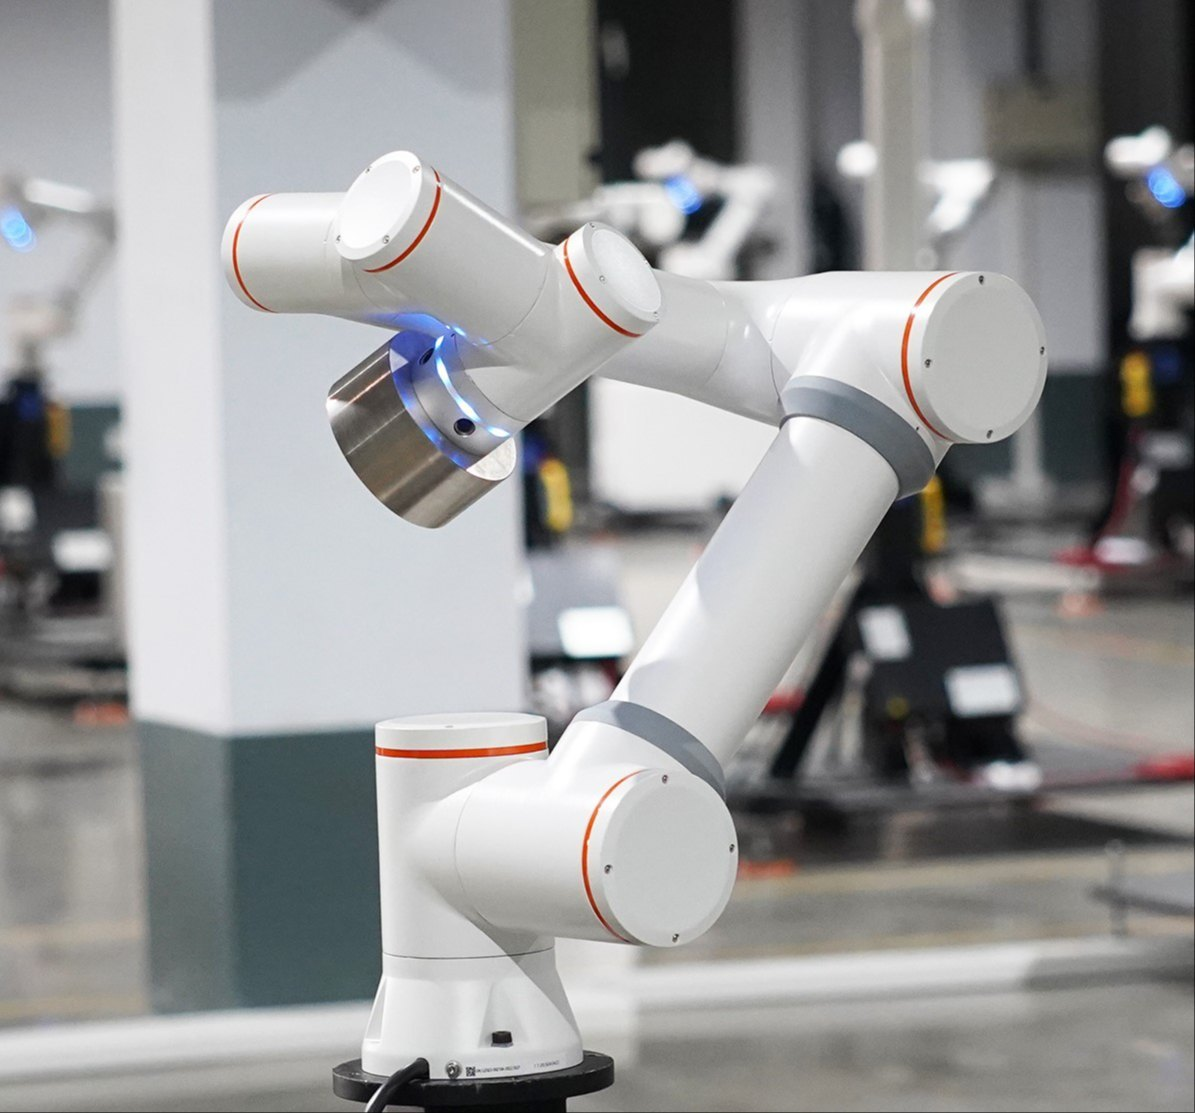
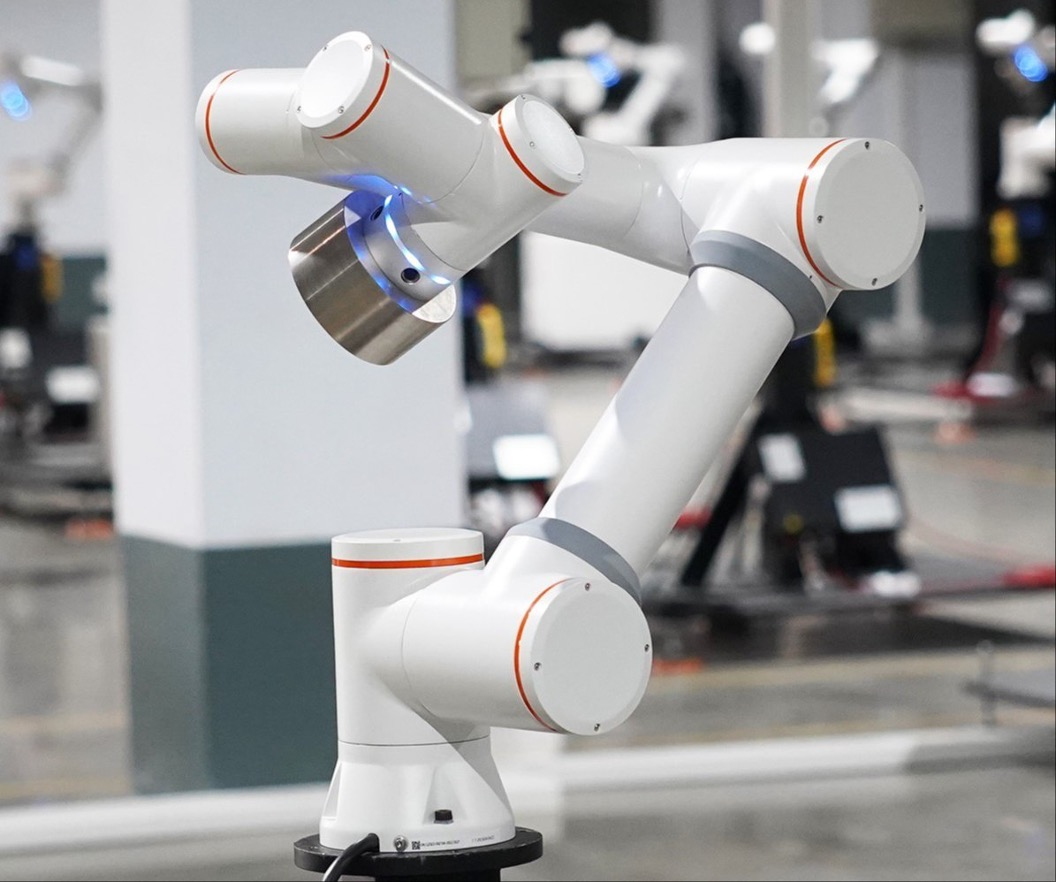
Update research modules: fix YouTube embed URLs, improve video sizing and alignment, add project lead styling, update content formatting

diff --git a/_projects/llms7.md b/_projects/llms7.md
@@ -7,14 +7,48 @@ importance: 1
 category: current
 ---
 
-To be updated.
+#### *Project Lead: [Peihan Li](https://scholar.google.com/citations?user=Qg7-Gr0AAAAJ&hl=en)*
 
-[arXiv:2502.03814](https://arxiv.org/abs/2502.03814): Large language models for multi-robot systems: A survey.
+## Large Language Models for Multi-Robot Systems: A Survey
 
-[arXiv:2505.06513](https://arxiv.org/abs/2505.06513): LLM-Flock: Decentralized Multi-Robot Flocking via Large Language Models and Influence-Based Consensus.
+<div class="row">
+    <div class="col-sm mt-3 mt-md-0">
+        {% include figure.html path="assets/img/LLMMRS.png" title="example image" class="img-fluid rounded z-depth-1" %}
+    </div>
+</div>
 
-[arXiv:2409.12274](https://arxiv.org/abs/2409.12274): Hierarchical llms in-the-loop optimization for real-time multi-robot target tracking under unknown hazards.
+The rapid advancement of Large Language Models (LLMs) has opened new possibilities in Multi-Robot Systems (MRS), enabling enhanced communication, task planning, and human-robot interaction. Unlike traditional single-robot and multi-agent systems, MRS poses unique challenges, including coordination, scalability, and real-world adaptability. This survey provides the first comprehensive exploration of LLM integration into MRS. It systematically categorizes their applications across high-level task allocation, mid-level motion planning, low-level action generation, and human intervention. We highlight key applications in diverse domains, such as household robotics, construction, formation control, target tracking, and robot games, showcasing the versatility and transformative potential of LLMs in MRS.
+Furthermore, we examine the challenges that limit adapting LLMs in MRS, including mathematical reasoning limitations, hallucination, latency issues, and the need for robust benchmarking systems. Finally, we outline opportunities for future research, emphasizing advancements in fine-tuning, reasoning techniques, and task-specific models. This survey aims to guide researchers in the intelligence and real-world deployment of MRS powered by LLMs. Based on the fast-evolving nature of research in the field, we keep updating the papers in the open-source [Github repository](https://github.com/Zhourobotics/LLM-MRS-survey). [Preprint](https://arxiv.org/abs/2502.03814).
 
-[arXiv:2404.04752](https://arxiv.org/abs/2404.04752): Challenges faced by large language models in solving multi-agent flocking.
+## LLM-Flock: Decentralized Multi-Robot Flocking via LLMs and Influence-Based Consensus
+
+<div class="row">
+    <div class="col-sm-7 mt-3 mt-md-0">
+        {% include figure.html path="assets/img/LLMFlockv2.png" title="example image" class="img-fluid rounded z-depth-1" %}
+    </div>
+    <div class="col-sm-5 mt-3 mt-md-0">
+        <iframe width="100%" height="200" src="https://www.youtube.com/embed/8zcPYqjWzYo" frameborder="0" allowfullscreen></iframe>
+    </div>    
+</div>
+
+Large Language Models (LLMs) have advanced rapidly in recent years, demonstrating strong capabilities in problem comprehension and reasoning. Inspired by these developments, researchers have begun exploring the use of LLMs as decentralized decision-makers for multi-robot formation control. However, prior studies reveal that directly applying LLMs to such tasks often leads to unstable and inconsistent behaviors—robots may collapse to the centroid of their positions or diverge entirely—due to hallucinated reasoning, logical inconsistencies, and limited coordination awareness. To overcome these limitations, we propose a novel framework that integrates LLMs with an influence-based plan consensus protocol. In this framework, each robot independently generates a local plan toward the desired formation using its own LLM. The robots then iteratively refine their plans through a decentralized consensus protocol that accounts for their influence on neighboring robots. This process drives the system toward a coherent and stable flocking formation in a fully decentralized manner. We evaluate our approach through comprehensive simulations involving both state-of-the-art closed-source LLMs (e.g., o3-mini, Claude 3.5) and open-source models (e.g., Llama3.1-405b, Qwen-Max, DeepSeek-R1). The results show notable improvements in stability, convergence, and adaptability over previous LLM-based methods. We further validate our framework on a physical team of Crazyflie drones, demonstrating its practical viability and effectiveness in real-world multi-robot systems. [Preprint](https://arxiv.org/abs/2505.06513).
+
+## Challenges Faced By Large Language Models In Solving Multi-Agent Flocking
+
+<div class="row">
+    <div class="col-sm-8 mt-3 mt-md-0">
+        <iframe width="100%" height="285" src="https://www.youtube.com/embed/Oqa_F1TSitc" frameborder="0" allowfullscreen></iframe>
+    </div>    
+</div>
+Flocking is a behavior where multiple agents in a system attempt to stay close to each other while avoiding collision and maintaining a desired formation. This is observed in the natural world and has applications in robotics, including search and rescue, wild animal tracking, and perimeter surveillance. Recently, large language models (LLMs) have displayed an impressive ability to solve various collaboration tasks as individual decision-makers. Solving multi-agent flocking with LLMs would demonstrate their usefulness in situations requiring spatial and decentralized decision-making. Yet, when LLM-powered agents are tasked with implementing multi-agent flocking, they fall short of the desired behavior. After extensive testing, we find that agents with LLMs as individual decision-makers typically opt to converge on the average of their initial positions or diverge from each other. After breaking the problem down, we discover that LLMs cannot understand maintaining a shape or keeping a distance in a meaningful way. Solving multi-agent flocking with LLMs would enhance their ability to understand collaborative spatial reasoning and lay a foundation for addressing more complex multi-agent tasks. This paper discusses the challenges LLMs face in multi-agent flocking and suggests areas for future improvement and research. [DARS'24](https://arxiv.org/abs/2404.04752) & [GitHub](https://github.com/Zhourobotics/llms-for-flocking-pub).
 
 
+## Hierarchical LLMs In-the-loop Optimization for Real-time  Multi-Robot Target Tracking under Unknown Hazards
+
+<div class="row">
+    <div class="col-sm mt-3 mt-md-0">
+        {% include figure.html path="assets/img/llmtrack.png" title="example image" class="img-fluid rounded z-depth-1" %}
+    </div>
+</div>
+
+Real-time multi-robot coordination in hazardous and adversarial environments requires fast, reliable adaptation to dynamic threats. While Large Language Models (LLMs) offer strong high-level reasoning capabilities, the lack of safety guarantees limits their direct use in critical decision-making. In this paper, we propose a hierarchical optimization framework that integrates LLMs into the decision loop for multi-robot target tracking in dynamic and hazardous environments. Rather than generating control actions directly, LLMs are used to generate task configuration and adjust parameters in a bi-level task allocation and planning problem. We formulate multi-robot coordination for tracking tasks as a bi-level optimization problem, with LLMs to reason about potential hazards in the environment and the status of the robot team and modify both the inner and outer levels of the optimization. This hierarchical approach enables real-time adjustments to the robots' behavior. Additionally, a human supervisor can offer broad guidance and assessments to address unexpected dangers, model mismatches, and performance issues arising from local minima. We validate our proposed framework in both simulation and real-world experiments with comprehensive evaluations, demonstrating its effectiveness and showcasing its capability for safe LLM integration for multi-robot systems. [Preprint](https://arxiv.org/abs/2409.12274).

diff --git a/_projects/autodrive.md b/_projects/autodrive.md
@@ -1,0 +1,48 @@
+---
+layout: page
+title: VLMs for Autonomous Driving
+description: 
+img: assets/img/autodrive.jpg
+importance: 3
+category: current
+---
+
+#### *Project Lead: [Amirhosein Chahe](https://scholar.google.com/citations?user=MeK_1LUAAAAJ&hl=en)*
+
+## ReasonDrive: Efficient Visual Question Answering for Autonomous Vehicles with Reasoning-Enhanced Small Vision-Language Models
+
+<div class="row">
+    <div class="col-sm mt-3 mt-md-0">
+        {% include figure.html path="assets/img/reasondrive.jpg" title="example image" class="img-fluid rounded z-depth-1" %}
+    </div>
+</div>
+
+Vision-language models (VLMs) show promise for autonomous driving but often lack transparent reasoning capabilities that are critical for safety. We investigate whether explicitly modeling reasoning during fine-tuning enhances VLM performance on driving decision tasks. Using GPT-4o, we generate structured reasoning chains for driving scenarios from the DriveLM benchmark with category-specific prompting strategies. We compare reasoning-based fine-tuning, answer-only fine-tuning, and baseline instruction-tuned models across multiple small VLM families (Llama 3.2, Llava 1.5, and Qwen 2.5VL). Our results demonstrate that reasoning-based fine-tuning consistently outperforms alternatives, with Llama3.2-11B-reason achieving the highest performance. Models fine-tuned with reasoning show substantial improvements in accuracy and text generation quality, suggesting explicit reasoning enhances internal representations for driving decisions. These findings highlight the importance of transparent decision processes in safety-critical domains and offer a promising direction for developing more interpretable autonomous driving systems. [CVPR'25 WDFM-AD Workshop](https://openaccess.thecvf.com/content/CVPR2025W/WDFM-AD/html/Chahe_ReasonDrive_Efficient_Visual_Question_Answering_for_Autonomous_Vehicles_with_Reasoning-Enhanced_CVPRW_2025_paper.html) & [GitHub](https://github.com/Zhourobotics/ReasonDrive).
+
+
+## Query3D: LLM-Powered Open-Vocabulary Scene Segmentation with Language Embedded 3D Gaussians
+
+<div class="row">
+    <div class="col-sm mt-3 mt-md-0">
+        {% include figure.html path="assets/img/query3d.png" title="example image" class="img-fluid rounded z-depth-1" %}
+    </div>
+</div>
+
+This paper introduces a novel method for open-vocabulary 3D scene querying in autonomous driving by combining Language Embedded 3D Gaussians with Large Language Models (LLMs). We propose utilizing LLMs to generate both contextually canonical phrases and helping positive words for enhanced segmentation and scene interpretation. Our method leverages GPT-3.5 Turbo as an expert model to create a high-quality text dataset, which we then use to fine-tune smaller, more efficient LLMs for on-device deployment.
+Our comprehensive evaluation on the WayveScenes101 dataset demonstrates that LLM-guided segmentation significantly outperforms traditional approaches based on predefined canonical phrases. Notably, our fine-tuned smaller models achieve performance comparable to larger expert models while maintaining faster inference times. Through ablation studies, we discover that the effectiveness of helping positive words correlates with model scale, with larger models better equipped to leverage additional semantic information.
+This work represents a significant advancement towards more efficient, context-aware autonomous driving systems, effectively bridging 3D scene representation with high-level semantic querying while maintaining practical deployment considerations. [WACV'25 LLVM-AD Workshop](https://openaccess.thecvf.com/content/WACV2025W/LLVMAD/html/Chahe_Query3D_LLM-Powered_Open-Vocabulary_Scene_Segmentation_with_Language_Embedded_3D_Gaussians_WACVW_2025_paper.html) & [GitHub](https://github.com/Zhourobotics/Query-3DGS-LLM).
+
+
+## Dynamic Adversarial Attacks on Autonomous Driving Systems
+
+<div class="row">
+    <div class="col-sm-7 mt-3 mt-md-0">
+        {% include figure.html path="assets/img/rssadversiral.png" title="example image" class="img-fluid rounded z-depth-1" style="height: 210px; object-fit: cover;" %}
+    </div>
+    <div class="col-sm-5 mt-3 mt-md-0">
+        <iframe width="100%" height="165" src="https://www.youtube.com/embed/Wh2sPYpWczQ" frameborder="0" allowfullscreen></iframe>
+    </div>    
+</div>
+
+This paper introduces an attacking mechanism to challenge the resilience of autonomous driving systems. Specifically, we manipulate the decision-making processes of an autonomous vehicle by dynamically displaying adversarial patches on a screen mounted on another moving vehicle. These patches are optimized to deceive the object detection models into misclassifying targeted objects, e.g., traffic signs. Such manipulation has significant implications for critical multi-vehicle interactions such as intersection crossing, which are vital for safe and efficient autonomous driving systems. 
+Particularly, we make four major contributions. First, we introduce a novel adversarial attack approach where the patch is not co-located with its target, enabling more versatile and stealthy attacks. Moreover, our method utilizes dynamic patches displayed on a screen, allowing for adaptive changes and movements, enhancing the flexibility and performance of the attack. To do so, we design a Screen Image Transformation Network (SIT-Net), which simulates environmental effects on the displayed images, narrowing the gap between simulated and real-world scenarios. Further, we integrate a positional loss term into the adversarial training process to increase the success rate of the dynamic attack. Finally, we shift the focus from merely attacking perceptual systems to influencing the decision-making algorithms of self-driving systems. Our experiments demonstrate the first successful implementation of such dynamic adversarial attacks in real-world autonomous driving scenarios, paving the way for advancements in the field of robust and secure autonomous driving. [RSS'24](https://www.roboticsproceedings.org/rss20/p076.pdf) & [GitHub](https://github.com/amirhoseinch/dynamicpatch). 

diff --git a/_projects/airground3.md b/_projects/airground3.md
@@ -2,13 +2,36 @@
 layout: page
 title: VLMs for Air Ground Systems 
 description: 
-img: assets/img/airground.jpg
+img: assets/img/airground1.jpg
 importance: 2
 category: current
 ---
 
-To be updated.
+#### *Project Lead: [Bill Cai](https://scholar.google.com/citations?user=9OTtpc8AAAAJ&hl=en)*
 
-[arXiv:2505.06399](https://arxiv.org/abs/2505.06399): LLM-Land: Large Language Models for Context-Aware Drone Landing.
+## LLM-Land: Large Language Models for Context-Aware Drone Landing
 
-[arXiv:2310.07729](https://arxiv.org/abs/2310.07729): Energy-aware routing algorithm for mobile ground-to-air charging.
+<div class="row">
+    <div class="col-sm-7 mt-3 mt-md-0">
+        {% include figure.html path="assets/img/land.png" title="example image" class="img-fluid rounded z-depth-1" style="height: 210px; object-fit: cover;" %}
+    </div>
+    <div class="col-sm-5 mt-3 mt-md-0">
+        <iframe width="100%" height="200" src="https://www.youtube.com/embed/9yGEpqmCtdA" frameborder="0" allowfullscreen></iframe>
+    </div>    
+</div>
+
+Autonomous landing is essential for drones deployed in emergency deliveries, post-disaster response, and other large-scale missions. By enabling self-docking on charging platforms, it facilitates continuous operation and significantly extends mission endurance. However, traditional approaches often fall short in dynamic, unstructured environments due to limited semantic awareness and reliance on fixed, context-insensitive safety margins. To address these limitations, we propose a hybrid framework that integrates large language models (LLMs) with model predictive control (MPC). Our approach begins with a vision–language encoder (VLE) (e.g., BLIP), which transforms real-time images into concise textual scene descriptions. These descriptions are processed by a lightweight LLM (e.g., Qwen 2.5 1.5B  or LLaMA 3.2 1B) equipped with retrieval-augmented generation (RAG) to classify scene elements and infer context-aware safety buffers, such as 3 meters for pedestrians and 5 meters for vehicles. The resulting semantic flags and unsafe regions are then fed into an MPC module, enabling real-time trajectory replanning that avoids collisions while maintaining high landing precision. We validate our framework in the ROS-Gazebo simulator, where it consistently outperforms conventional vision-based MPC baselines. Our results show a significant reduction in near-miss incidents with dynamic obstacles, while preserving accurate landings in cluttered environments. [Preprint](https://arxiv.org/abs/2505.06399).
+
+
+## An Energy-Aware Routing Algorithm for Mobile Ground-to-Air Charging
+
+<div class="row">
+    <div class="col-sm-8 mt-3 mt-md-0">
+        {% include figure.html path="assets/img/routing.png" title="example image" class="img-fluid rounded z-depth-1" style="height: 210px; object-fit: cover;" %}
+    </div>
+    <div class="col-sm-4 mt-3 mt-md-0">
+        <iframe width="100%" height="190" src="https://www.youtube.com/embed/eYPMPYThhKE" frameborder="0" allowfullscreen></iframe>
+    </div>    
+</div>
+
+We investigate the problem of energy-constrained planning for a cooperative system consisting of an Unmanned Ground Vehicle (UGV) and an Unmanned Aerial Vehicle (UAV). In scenarios where the UGV serves as a mobile base to ferry the UAV and as a charging station to recharge the UAV, we formulate a novel energy-constrained routing problem. To tackle this problem, we design an energy-aware routing algorithm, aiming to minimize the overall mission duration under the energy limitations of both vehicles. The algorithm first solves a Traveling Salesman Problem (TSP) to generate a guided tour. Then, it employs the Monte-Carlo Tree Search (MCTS) algorithm to refine the tour and generate paths for the two vehicles, taking into account multiple physical constraints such as charging speed, total energy expenditure, travel time, and other operational requirements. We evaluate the performance of our algorithm through extensive simulations and a proof-of-concept experiment. The results show that our algorithm consistently achieves near-optimal mission time and maintains fast running time across a wide range of problem instances. [ISRR'24](https://arxiv.org/abs/2310.07729).

diff --git a/_pages/research.md b/_pages/research.md
@@ -8,9 +8,14 @@ nav_order: 1
 display_categories: [current, past]
 horizontal: false
 ---
-Today, robotics and autonomous systems have been increasingly used in various areas such as manufacturing, military, agriculture, medical sciences, and environmental monitoring. However, most of these systems are fragile and vulnerable to adversarial attacks and uncertain environmental conditions. In most cases, even if a part of the system fails, the entire system performance can be significantly undermined. As robots start to coexist with humans, we need algorithms that can be trusted under real-world (not just ideal) conditions. To this end, our research focuses on enabling **security, trustworthiness, and long-term autonomy** in robotics and autonomous systems. We devise _efficient coordination algorithms with rigorous theoretical guarantees_ to make robots resilient to attacks and aware of the loss from uncertainty. Our long-term goal is to investigate **secure, reliable, and scalable multi-robot autonomy** when robots use data-driven machine learning techniques in the areas of **cyber-physical systems, the Internet of Things, precision agriculture, and smart cities**.
+<!-- Today, robotics and autonomous systems have been increasingly used in various areas such as manufacturing, military, agriculture, medical sciences, and environmental monitoring. However, most of these systems are fragile and vulnerable to adversarial attacks and uncertain environmental conditions. In most cases, even if a part of the system fails, the entire system performance can be significantly undermined. As robots start to coexist with humans, we need algorithms that can be trusted under real-world (not just ideal) conditions. To this end, our research focuses on enabling **security, trustworthiness, and long-term autonomy** in robotics and autonomous systems. We devise _efficient coordination algorithms with rigorous theoretical guarantees_ to make robots resilient to attacks and aware of the loss from uncertainty. Our long-term goal is to investigate **secure, reliable, and scalable multi-robot autonomy** when robots use data-driven machine learning techniques in the areas of **cyber-physical systems, the Internet of Things, precision agriculture, and smart cities**. -->
 
-[Current Robotics Reports](https://link.springer.com/article/10.1007/s43154-021-00046-5): a survery of multi-robot coordination and planning in uncertain and adversarial environments.
+Our lab explores the foundations of **robust, reliable, and scalable autonomy** for robotic and multi-robot systems. We aim to build intelligent systems that can **perceive, reason, and act** in dynamic and unstructured environments, enabling applications in environmental monitoring, precision agriculture, disaster response, urban mobility, and beyond. We are particularly interested in how **coordination, perception, planning, and control** can be enhanced by combining algorithmic tools with **data-driven approaches**, including emerging **foundation models**. This includes investigating how robot teams can operate effectively under limited communication, uncertainty, and evolving tasks, while generalizing across diverse environments and missions.
+
+
+[Preprint](https://arxiv.org/abs/2502.03814): A survey of large language models (LLMs) for multi-robot coordination. 
+
+[Current Robotics Reports](https://link.springer.com/article/10.1007/s43154-021-00046-5): A survery of multi-robot coordination and planning in uncertain and adversarial environments.
 
 
 <!-- pages/projects.md -->

diff --git a/_pages/about.md b/_pages/about.md
@@ -35,17 +35,20 @@ social: true  # includes social icons at the bottom of the page
       <img class="d-block w-100" src="assets/img/labmempic.jpg">
     </div> 
     <div class="carousel-item ">
-      <img class="d-block w-100" src="assets/img/huskydrone.png">
-    </div>  
+      <img class="d-block w-100" src="assets/img/airground1.jpg">
+    </div>
     <div class="carousel-item ">
       <img class="d-block w-100" src="assets/img/modalaidrone.png">
     </div> 
+    <!-- <div class="carousel-item ">
+      <img class="d-block w-100" src="assets/img/huskydrone.png">
+    </div>   -->
     <div class="carousel-item">
-      <img class="d-block w-100" src="assets/img/autovehicle.jpeg">
+      <img class="d-block w-100" src="assets/img/autodrive.jpg">
     </div>
     <div class="carousel-item ">
-      <img class="d-block w-100" src="assets/img/robottargt.jpeg">
-    </div>
+      <img class="d-block w-100" src="assets/img/robotarm.jpg">
+    </div>  
 
 </div>
 <a class="carousel-control-prev" href="#carouselExampleIndicators" role="button" data-slide="prev">

diff --git a/_projects/adverallo5.md b/_projects/adverallo5.md
@@ -7,8 +7,6 @@ importance: 5
 category: past
 ---
 
-To be updated.
-
-[arXiv:2505.06319](https://arxiv.org/abs/2505.06319): Reinforcement Learning for Game-Theoretic Resource Allocation on Graphs.
+[Preprint](https://arxiv.org/abs/2505.06319): Reinforcement Learning for Game-Theoretic Resource Allocation on Graphs.
 
 [T-RO](https://ieeexplore.ieee.org/abstract/document/10989573): Double oracle algorithm for game-theoretic robot allocation on graphs.

diff --git a/_projects/vlas_manipulation.md b/_projects/vlas_manipulation.md
@@ -7,4 +7,6 @@ importance: 4
 category: current
 ---
 
-To be updated. 
+#### *Project Lead: [Zijian An](https://scholar.google.com/citations?user=zOA9WhsAAAAJ&hl=en)*
+
+Exciting results coming soon! We are deploying **vision-language-action (VLA) models** to advance robotic manipulation, with a focus on applications in **item processing and packaging**.

diff --git a/_projects/resilient1.md b/_projects/resilient1.md
@@ -4,10 +4,12 @@ title: Resilient Coordination
 description: 
 img: assets/img/resilient_drone.png
 importance: 5
-category: current
+category: past
 ---
 
 ## Countering attacks and failures through resilient coordination
+
+<br>
 
 <div class="row">
     <div class="col-sm mt-3 mt-md-0">
